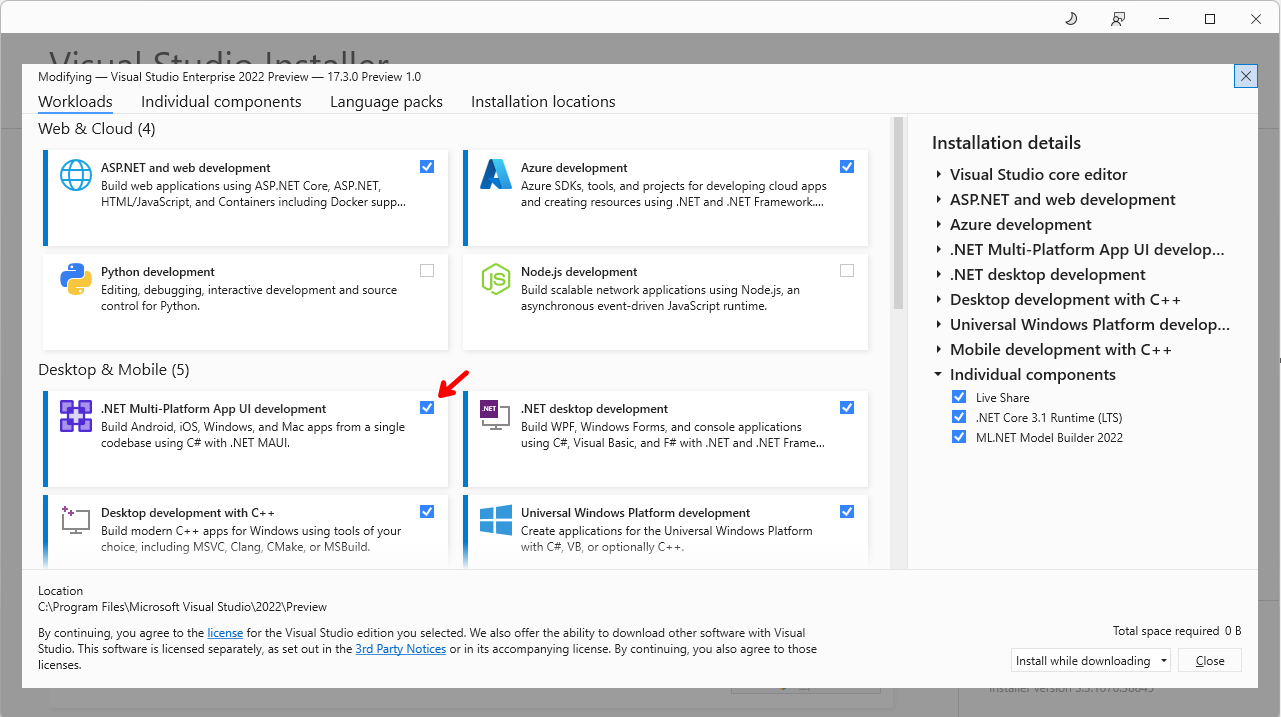
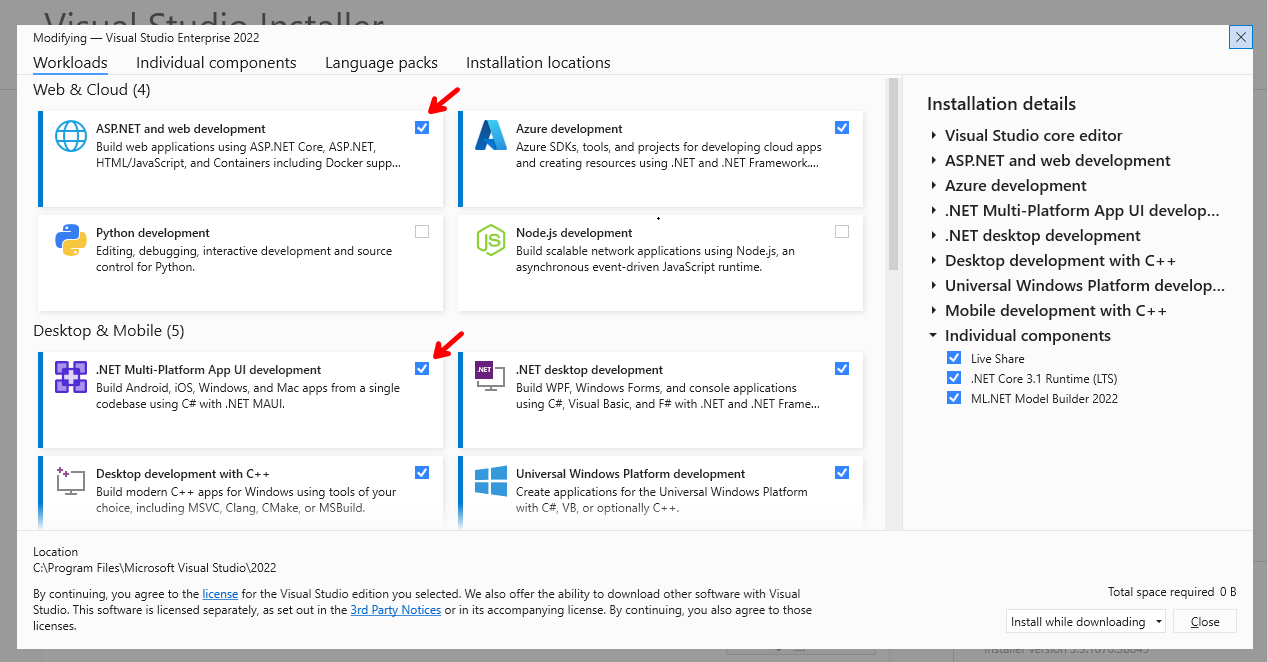
Add workload requirement for Blazor apps.

diff --git a/README.md b/README.md
@@ -28,9 +28,9 @@ For this demo, we are going to use the latest version of [Visual Studio 2022](ht
 
 ### Required Workloads
 
-In order to build `.NET MAUI` applications, you also need the `.NET Multi-platform App UI development` workload, so if you do not have it installed let's do that now.
+In order to build `.NET MAUI` applications, you need the `.NET Multi-platform App UI development` workload, and in order to build **Blazor** apps, the **ASP.NET and web development** workload needs to be installed, so if you do not have them installed let's do that now.
 
-![.NET Multi-platform App UI development](images/34640f10f2d813f245973ddb81ffa401c7366e96e625b3e59c7c51a78bbb2056.png)  
+![MAUI and Blazor Workloads](images/34640f10f2d813f245973ddb81ffa401c7366e96e625b3e59c7c51a78bbb2056.png)  
 
 ## Demo
 
@@ -185,7 +185,7 @@ The **Android** player only shows the ability to pause and play, and to jump to 
 
 >:blue_book: You can hide the player controls from the users by setting the **ShouldShowPlaybackControls** property to **False**.
 
-Now, we are going to add an **MP3** audio file to the solution and play it from a button click. 
+Now, we are going to add an **MP3** audio file to the solution and play it from a button click.
 
 Go to the *Platforms/Resources/Raw* folder, right-click on it, and click on the **Add/Existing Item...** option, and select an audio file. If you want to use the one I used, download it from the repo.
 
@@ -734,10 +734,10 @@ Run the app, and you'll see that the state label changes when you pause, resume,
 
 There are three media-related events you can handle, not so much for reporting to the user, but for you to act on in your code.
 
-| Event       | Description                                                  |
-| :---------- | :----------------------------------------------------------- |
-| MediaOpened | Occurs when the media stream has been validated and opened.  |
-| MediaEnded  | Occurs when the `MediaElement` finishes playing its media.   |
+| Event       | Description                                                    |
+| :---------- | :------------------------------------------------------------- |
+| MediaOpened | Occurs when the media stream has been validated and opened.    |
+| MediaEnded  | Occurs when the `MediaElement` finishes playing its media.     |
 | MediaFailed | Occurs when there's an error associated with the media source. |
 
 Let's create a `MediaStatus` string property, and update it from these three event handlers.
